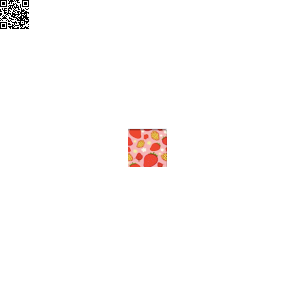
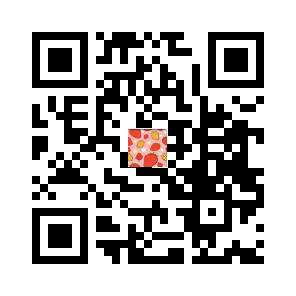
watermark and qr code demo

diff --git a/qrdemo.go b/qrdemo.go
@@ -1,12 +1,12 @@
 package main
 
 import (
-	"code.google.com/p/rsc/qr"
 	"fmt"
+	"github.com/liulixiang1988/qr"
 	"image"
 	"image/draw"
 	"image/png"
-	//"io/ioutil"
+	"io/ioutil"
 	"log"
 	"os"
 )
@@ -18,11 +18,12 @@ func main() {
 		fmt.Println(err)
 		log.Fatalln(err)
 	}
-	// png_img := code.PNG()
-	// err = ioutil.WriteFile("fubao.png", png_img, 0666)
-	// if err != nil {
-	// 	fmt.Println(err)
-	// }
+	fmt.Println("code info:", code.Size, code.Scale)
+	png_img := code.PNG()
+	err = ioutil.WriteFile("fubao1.png", png_img, 0666)
+	if err != nil {
+		fmt.Println(err)
+	}
 	img := code.Image()
 
 	f, err := os.Open("head.png")
@@ -33,13 +34,14 @@ func main() {
 	defer f.Close()
 
 	bounds := img.Bounds()
+	fmt.Println(bounds.Dx(), bounds.Dy())
 	matrix := image.NewNRGBA(bounds)
 
 	offsets := image.Pt(
 		(img.Bounds().Dx()-head_img.Bounds().Dx())/2,
 		(img.Bounds().Dy()-head_img.Bounds().Dy())/2)
-
-	draw.Draw(matrix, bounds, img, image.ZP, draw.Src)
+	fmt.Println(img.Bounds().Dx(), img.Bounds().Dy())
+	draw.Draw(matrix, img.Bounds(), img, image.ZP, draw.Src)
 	draw.Draw(matrix, head_img.Bounds().Add(offsets), head_img, image.ZP, draw.Over)
 
 	result_img, _ := os.Create("fubao.png")

diff --git a/watermark.go b/watermark.go
@@ -16,13 +16,23 @@ import (
 
 func main() {
 	//原始图片是sam.jpg
-	imgb, _ := os.Open("sam.jpg")
-	img, _ := jpeg.Decode(imgb)
+	imgb, err := os.Open("origin.jpg")
+	if err != nil {
+		fmt.Println("open error:", err)
+		return
+	}
+	img, err := jpeg.Decode(imgb)
+	if err != nil {
+		fmt.Println("jpg decode error:", err)
+		return
+	}
 	defer imgb.Close()
+	fmt.Println(img.Bounds().Dx(), img.Bounds().Dy())
 
-	wmb, _ := os.Open("text.png")
+	wmb, _ := os.Open("head.png")
 	watermark, _ := png.Decode(wmb)
 	defer wmb.Close()
+	fmt.Println(watermark.Bounds().Dx(), watermark.Bounds().Dy())
 
 	//把水印写到右下角，并向0坐标各偏移10个像素
 	offset := image.Pt(img.Bounds().Dx()-watermark.Bounds().Dx()-10, img.Bounds().Dy()-watermark.Bounds().Dy()-10)
